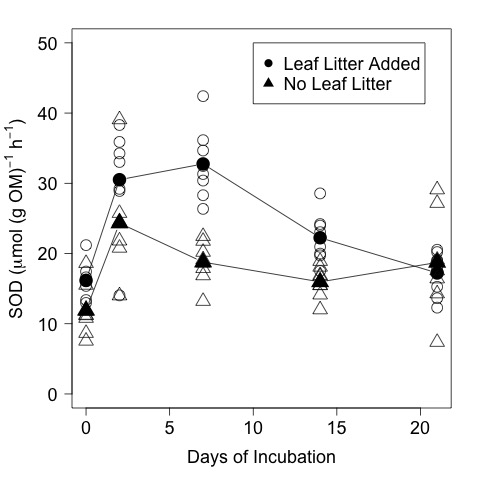
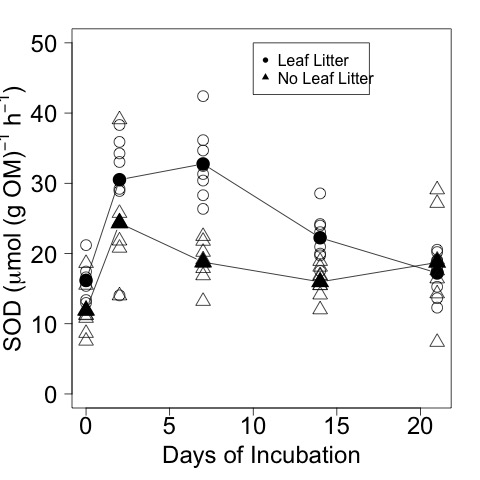
fixed legends on nutrient figs

diff --git a/lab_notebook/analysis/CPOM_Flux_SOD_Analysis.md b/lab_notebook/analysis/CPOM_Flux_SOD_Analysis.md
@@ -153,8 +153,8 @@ These results show that the only effect comes from CPOM.
     points(sod.mean.CPOM ~ unique(days.elap), data = sod, type = "b", pch = 16, col = "black", cex = 2.5)
     points(sod.OM ~ days.elap, data = sod, subset = CPOM == "no", pch = 2, col = "grey4", cex = 2)
     points(sod.mean.ctl ~ unique(days.elap), data = sod, type = "b", pch = 17, col = "black", cex = 2.5)
-    legend(10, 50, c("Leaf Litter Added ", "No Leaf Litter "), pch = c(16, 17), cex = 1.5)
+    legend(10, 50, c("Leaf Litter ", "No Leaf Litter "), pch = c(16, 17), cex = 1)
     dev.copy(jpeg, "./output/plots/SOD_OM_by_days.jpg")
     dev.off()
 
-![Area normalized SOD by days elapsed](../output/plots/SOD_OM_by_days.jpg)
+![Area normalized SOD by days elapsed](../output/plots/SOD_OM_by_days.jpeg)
